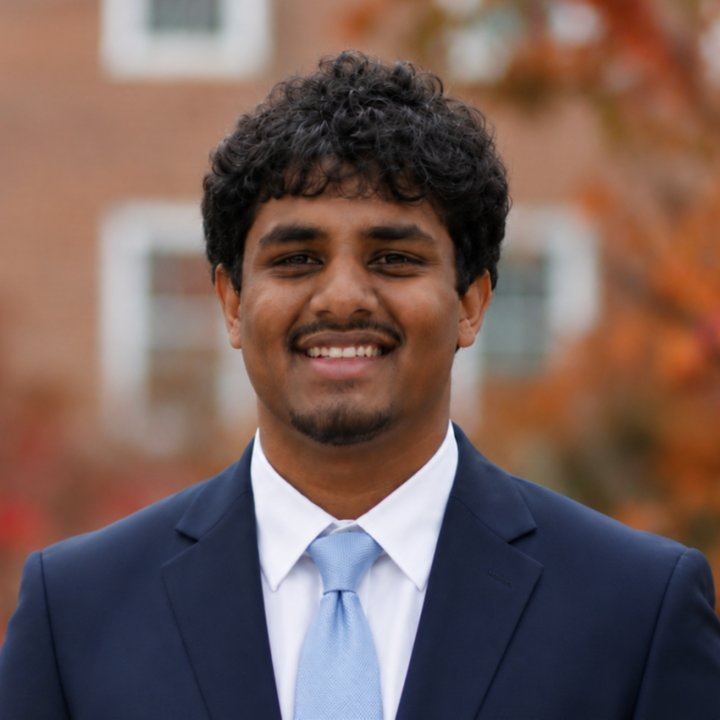
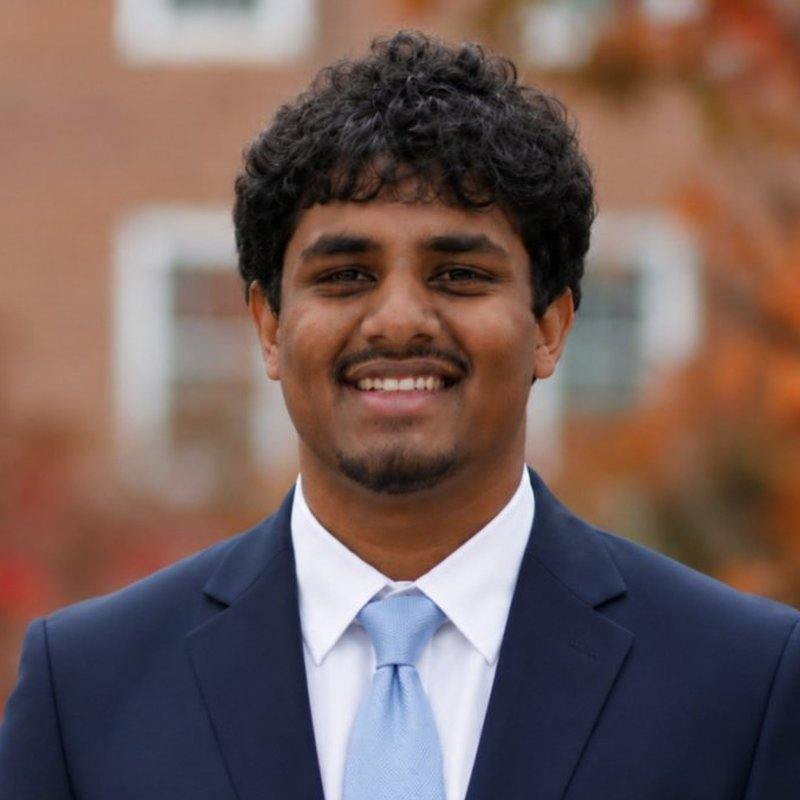
Standardize exec headshots and remove unused images
- All exec headshots cropped to the same 800x800 square framing (face centered, same scale)
- Converted remaining PNG headshots to JPG (~50 KB each, down from 1-4.5 MB)
- Removed images no longer referenced anywhere on the site (old exec photos,
  chapter JPGs superseded by WebP versions, unused crests/logos)

Claude-Session: https://claude.ai/code/session_013KCh72QEsXDpQNvAhcsZHr

diff --git a/exec.html b/exec.html
@@ -20,7 +20,7 @@
             </p>
             <div class="exec__container">
                 <div class="exec">
-                    <img class="exec__image" src="/static/img/exec/Gaines_Gunn.png" alt="Gaines Gunn, President">
+                    <img class="exec__image" src="/static/img/exec/Gaines_Gunn.jpg" alt="Gaines Gunn, President">
                     <div class="exec__name">Gaines Gunn</div>
                     <div class="exec__position">President</div>
                     <div class="exec__text">Class of 2028</div>
@@ -40,7 +40,7 @@
                     </div>
                 </div>
                 <div class="exec">
-                    <img class="exec__image" src="/static/img/exec/Samuel_Bueno.png" alt="Sam Bueno, Vice President of Recruitment">
+                    <img class="exec__image" src="/static/img/exec/Samuel_Bueno.jpg" alt="Sam Bueno, Vice President of Recruitment">
                     <div class="exec__name">Sam Bueno</div>
                     <div class="exec__position">Vice President of Recruitment</div>
                     <div class="exec__text">Class of 2028</div>
@@ -60,7 +60,7 @@
                     </div>
                 </div>
                 <div class="exec">
-                    <img class="exec__image" src="/static/img/exec/Seth_Adams.png" alt="Seth Adams, Vice President of Philanthropy">
+                    <img class="exec__image" src="/static/img/exec/Seth_Adams.jpg" alt="Seth Adams, Vice President of Philanthropy">
                     <div class="exec__name">Seth Adams</div>
                     <div class="exec__position">Vice President of Philanthropy</div>
                     <div class="exec__text">Class of 2027</div>
